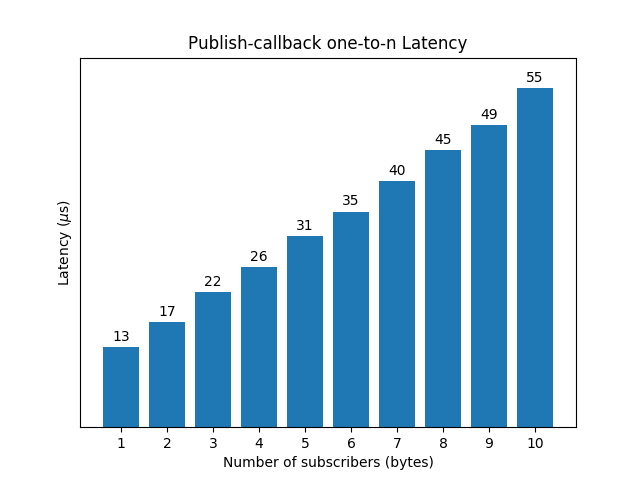
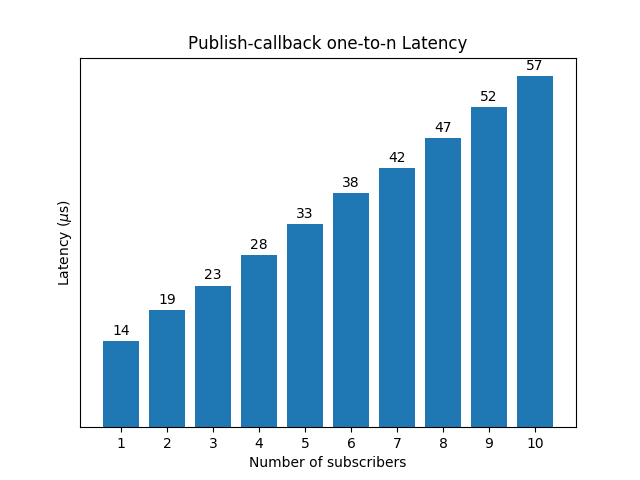
Adjust samples to Zephyr v2.3.0rc1
- Improve code
- Fix small module bugs

diff --git a/samples/pub_cb_o2o_performance/src/ping.c b/samples/pub_cb_o2o_performance/src/ping.c
@@ -45,7 +45,6 @@ void PING_task()
     u32_t start_cycles = k_cycle_get_32();
     zt_chan_pub(ZT_PING_DATA_1_CHANNEL, ping_data[current_channel >> 1]);
     int count = 1000;
-    int rc    = 0;
     while (1) {
         k_sem_take(&PING_callback_sem, K_FOREVER);
         // end_cycles = k_cycle_get_32();
@@ -69,11 +68,7 @@ void PING_task()
         --count;
         /*  Start another interaction */
         start_cycles = k_cycle_get_32();
-        rc = zt_chan_pub(1 + (current_channel << 1), ping_data[current_channel]);
-        if (rc) {
-            printk("Error ping: %d, count %d, current_channel %d\n", rc, count,
-                   current_channel);
-        }
+        zt_chan_pub(1 + (current_channel << 1), ping_data[current_channel]);
     }
 }
 

diff --git a/samples/pub_cb_o2n_performance/src/ping.c b/samples/pub_cb_o2n_performance/src/ping.c
@@ -39,7 +39,6 @@ void PING_task()
     start_cycles             = k_cycle_get_32();
     zt_chan_pub(current_channel, ping_data);
     int count = 1000;
-    int rc    = 0;
     while (1) {
         k_sem_take(&PING_callback_sem, K_FOREVER);
         /* printk("\rCount = %04d", count); */
@@ -64,11 +63,7 @@ void PING_task()
         --count;
         /*  Start another interaction */
         start_cycles = k_cycle_get_32();
-        rc           = zt_chan_pub(current_channel, ping_data);
-        if (rc) {
-            printk("Error ping: %d, count %d, current_channel %d\n", rc, count,
-                   current_channel);
-        }
+        zt_chan_pub(current_channel, ping_data);
     }
 }
 

diff --git a/samples/pub_cb_o2o_performance/chart.py b/samples/pub_cb_o2o_performance/chart.py
@@ -6,7 +6,7 @@ import matplotlib.pyplot as plt
 
 def channel_latency_ping():
     xs = ['1', '2', '4', '8', '16', '32', '64', '128', '255']
-    ys = [13, 14, 14, 14, 15, 17, 21, 29, 46]
+    ys = [14, 14, 14, 16, 16, 18, 21, 30, 46]
     plt.bar(xs, ys)  #, color=(0.4, 0.4, 0.4, 1.0))
     for x, y in zip(xs, ys):
         plt.text(x, y + 1, r"{0}".format(y), horizontalalignment='center')

diff --git a/samples/pub_cb_o2n_performance/chart.py b/samples/pub_cb_o2n_performance/chart.py
@@ -6,7 +6,7 @@ import matplotlib.pyplot as plt
 
 def plot():
     xs = ['1', '2', '3', '4', '5', '6', '7', '8', '9', '10']
-    ys = [13, 17, 22, 26, 31, 35, 40, 45, 49, 55]
+    ys = [14, 19, 23, 28, 33, 38, 42, 47, 52, 57]
     plt.bar(xs, ys)  #, color=(0.4, 0.4, 0.4, 1.0))
     for x, y in zip(xs, ys):
         plt.text(x, y + 1, r"{0}".format(y), horizontalalignment='center')
